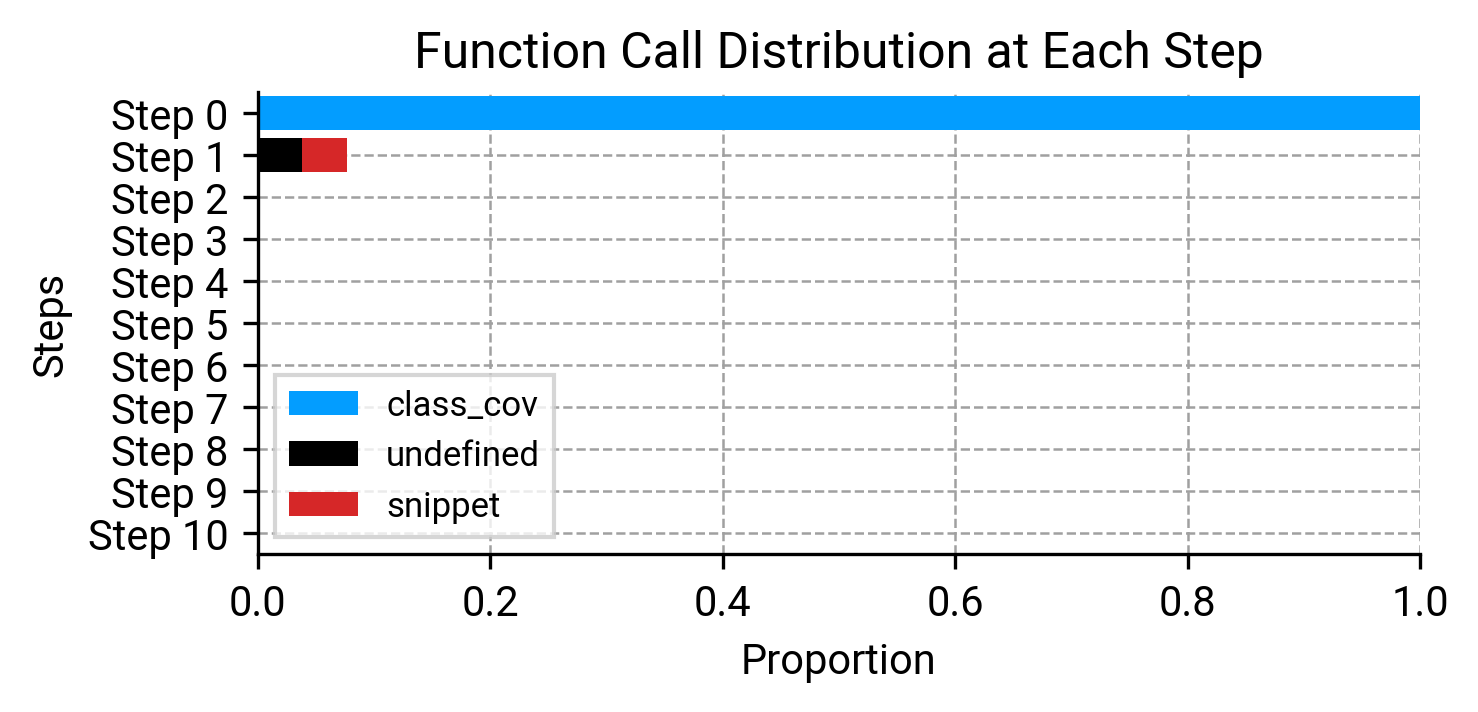
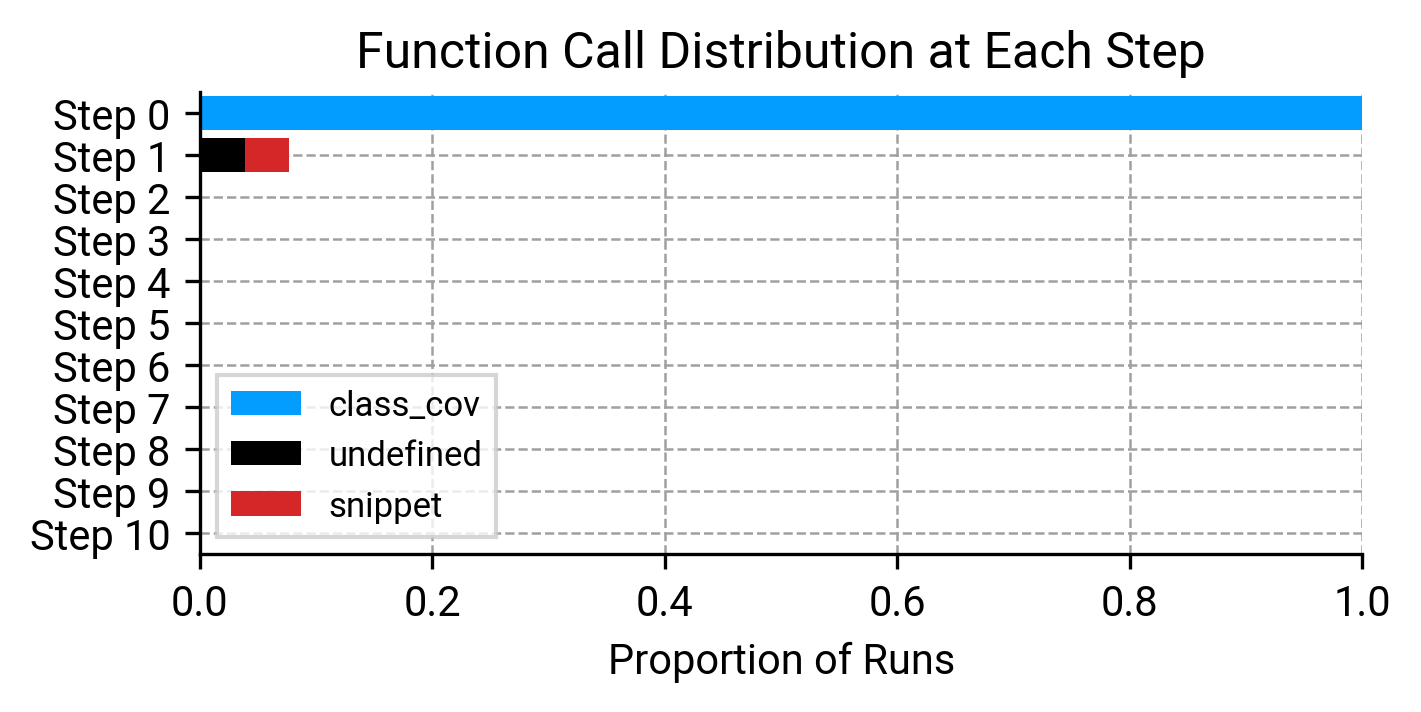
chore: update call distribution figure

diff --git a/analyze_function_calls.py b/analyze_function_calls.py
@@ -67,8 +67,7 @@ def plot_horizontal_cumulative_bar_chart(data, path):
         else:
             ax.barh(y, values[i], left=cumulative_values[i-1], label=func_labels[label_index], color=f'#{colors[label_index]}', tick_label=[f'Step {i}' for i in range(MAX_STEPS)])
     
-    ax.set_ylabel('Steps')
-    ax.set_xlabel('Proportion')
+    ax.set_xlabel('Proportion of Runs')
     ax.set_title('Function Call Distribution at Each Step')
     ax.legend()
     
